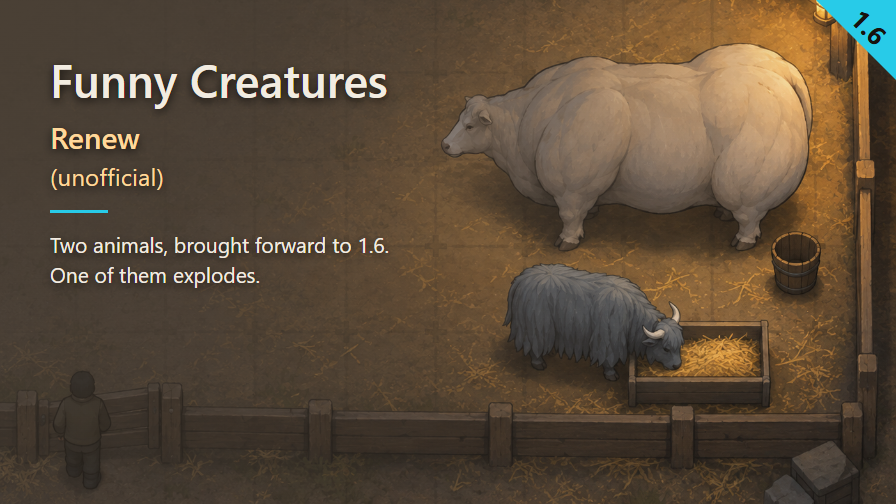
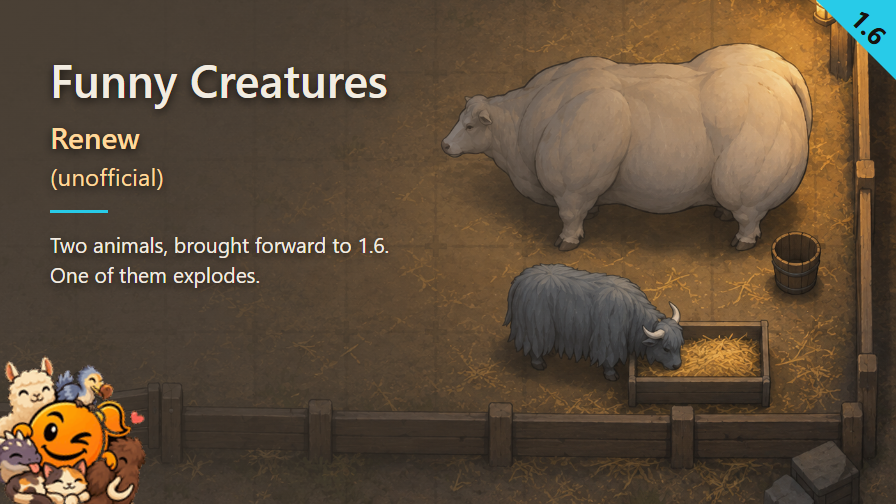
Preview.png: add the cutout ModIcon in the bottom-left corner
Owner rule of 2026-09-29: Preview.png now carries the mod icon,
detoured by a border flood-fill (never a global colour threshold, so
the icon's own clean outline is untouched) and rotated +15deg in
whichever corner samples emptiest (bottom-left here), overflowing the
frame's left and bottom edges as if the icon were stepping out of it.

PUBLICATION.md: document the paired gallery rule, image 00 is a
byte-identical copy of this Preview.png; captures still start at 01.

Changed region(s): [[0.0, 0.7143, 0.1875, 1.0]]

diff --git a/PUBLICATION.md b/PUBLICATION.md
@@ -94,14 +94,16 @@ First release of the 1.6 update of Funny Creatures, by PredatorKing.
 ## Gallery
 
 **Not produced.** The gallery is a manual step on the Steam page (SteamCMD sends the header image only), from a folder that holds
-the images to upload numbered `01-`, `02-`, `03-` in page order and nothing else. The captures come from the Pickle scenarios tagged
+the images to upload numbered `00-`, `01-`, `02-`, `03-` in page order and nothing else. `00-` is a byte-identical copy of
+`About/Preview.png` (owner rule of 2026-09-29); the captures follow it starting at `01-`. They come from the Pickle scenarios tagged
 `@review`, which makes them reproducible; a green scenario proves the path ran, not that the image shows anything, so **every image is
 opened and read before it goes in the folder.**
 
-Steam shows the first image large, so the most demonstrative one goes first, not the prettiest:
+Steam shows the first image large, so `00-` (the Preview, icon and all) leads and the most demonstrative capture follows:
 
 | # | Image | Source | Why here |
 |---|---|---|---|
+| 00 | `About/Preview.png`, byte-identical copy | the About/Preview.png of this same build | Owner rule 2026-09-29: the vitrine's first image is the Preview |
 | 01 | The boomsloth's explosion, one frame taken from the film of `02-the-boomsloth-explodes` | the `@film` scenario | It is the one thing the animal is named for, and the one thing a screenshot of a livestock pen cannot say |
 | 02 | The two animals side by side, zoomed | `01-the-animals`, capture `the-two-animals` | Shows what is being installed |
 
